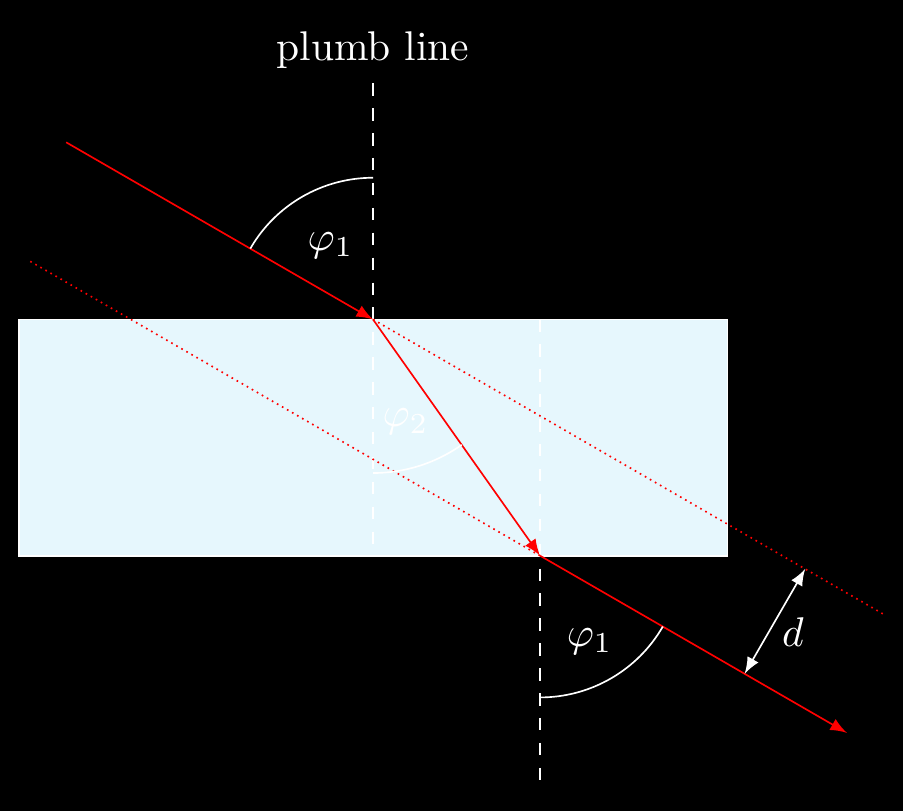
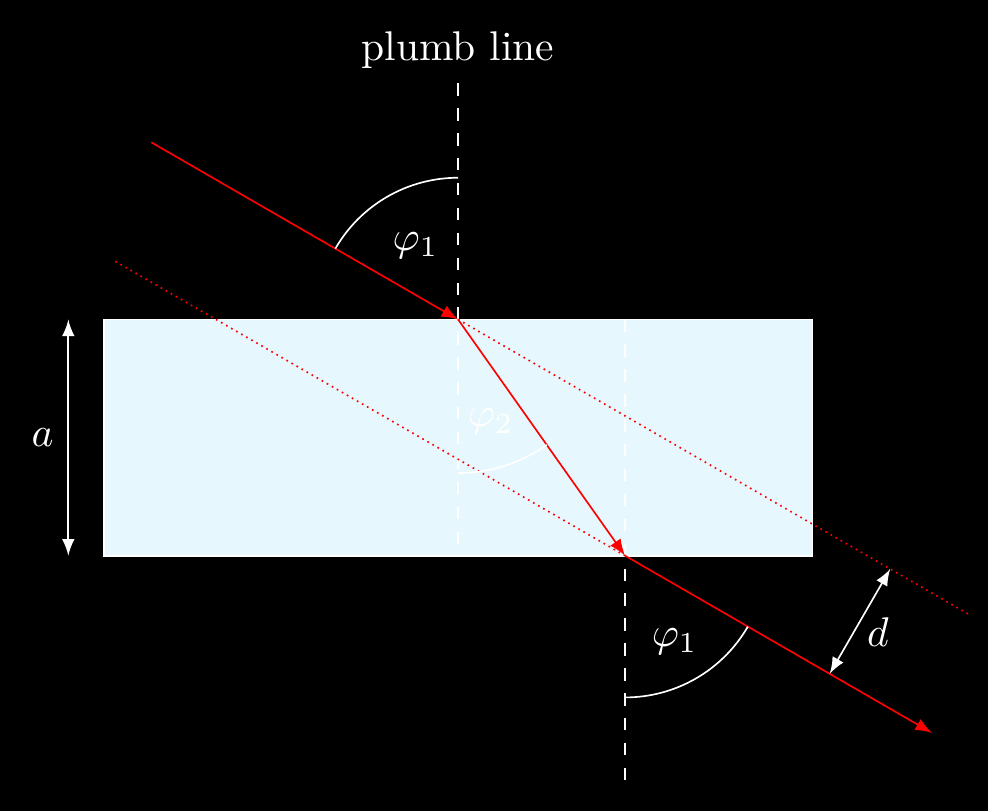
adding label for prism height

diff --git a/optics/parallel-displacement-prism/parallel-displacement-prism.tex b/optics/parallel-displacement-prism/parallel-displacement-prism.tex
@@ -22,6 +22,7 @@
   \draw[->,red] (B) -- ++({-90+\AngleA}:{\Width/2}) coordinate (C);
   \draw[densely dotted,red] (B) -- ++ ({90+\AngleA}:5) coordinate (P);
   \draw[densely dotted,red] (O) -- ++ ({-90+\AngleA}:5);
+  \draw[<->] ({-\Width/2*1.1},0) -- ++(0,{-\Height}) node[midway,left] {$a$};
   % 
   \draw[<->] (B)++({-90+\AngleA}:{\Width/3}) coordinate (D1) -- ++({\AngleA}:{\ParallelDistance}) coordinate (D2)node at ($(D1)!0.5!(D2)!-0.5em!90:(D2)$) {$d$};
   % 

diff --git a/optics/parallel-displacement-prism/parallel-displacement-prism_inverted.tex b/optics/parallel-displacement-prism/parallel-displacement-prism_inverted.tex
@@ -31,6 +31,7 @@
   \draw[->,red] (B) -- ++({-90+\AngleA}:{\Width/2}) coordinate (C);
   \draw[densely dotted,red] (B) -- ++ ({90+\AngleA}:5) coordinate (P);
   \draw[densely dotted,red] (O) -- ++ ({-90+\AngleA}:5);
+  \draw[<->] ({-\Width/2*1.1},0) -- ++(0,{-\Height}) node[midway,left] {$a$};
   % 
   \draw[<->] (B)++({-90+\AngleA}:{\Width/3}) coordinate (D1) -- ++({\AngleA}:{\ParallelDistance}) coordinate (D2)node at ($(D1)!0.5!(D2)!-0.5em!90:(D2)$) {$d$};
   % 
